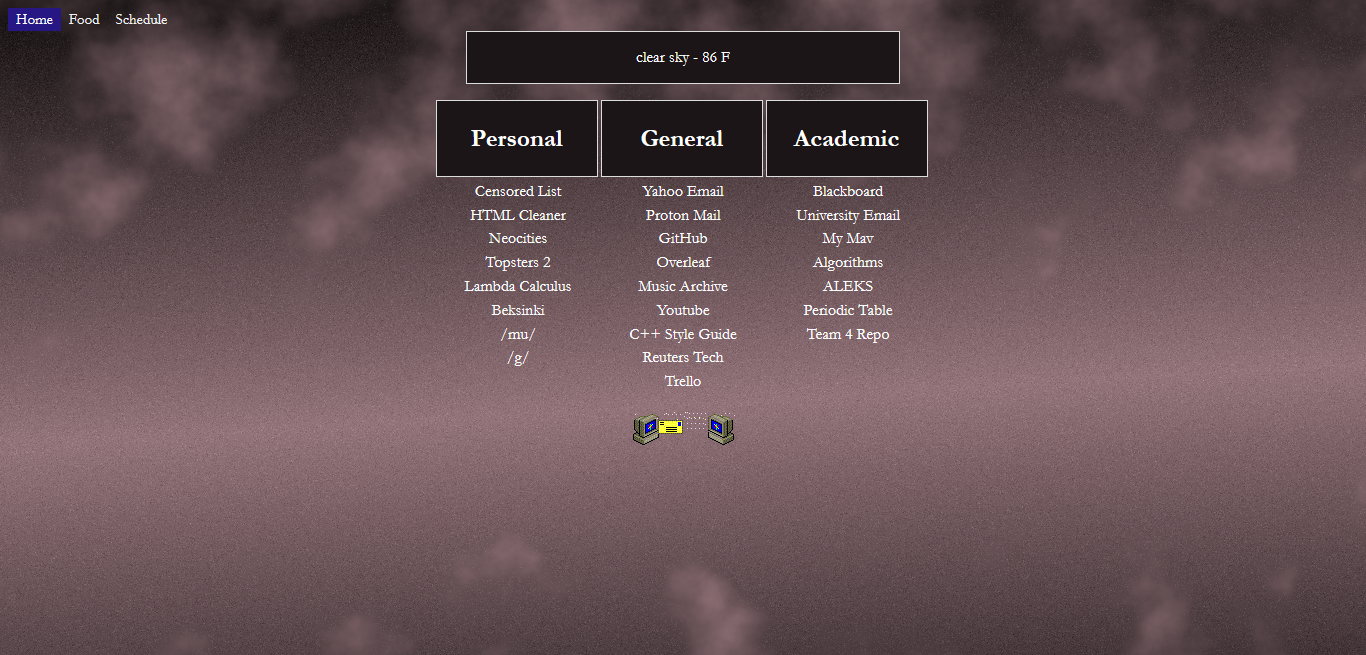
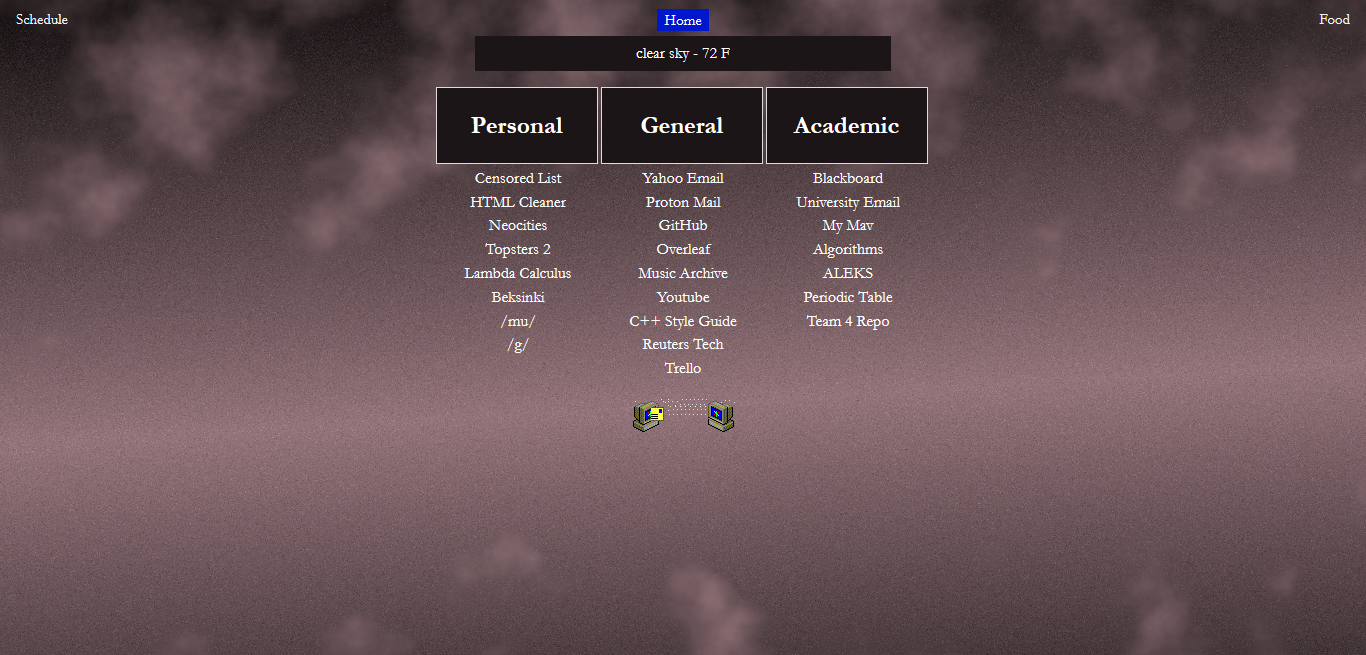
Preview update and styles comments added

diff --git a/dan/styles.css b/dan/styles.css
@@ -14,23 +14,49 @@ body {
 	
 	align-items: center;
     justify-content: center;
-	
     display: flex;
 	flex-direction: column;
+}
+
+.h-divider{
+	margin-top: 5px;
+	margin-bottom: 5px;
+	width: 100%;
+	height: 1px;
 }
 
 .weather-container {
     width: 400px;
     background-color: #1C1517;
-	border: 1px solid #ddd;
-    padding: 1em;
+	//border: 1px solid #ddd;
+    padding: 8px 8px;
     color: white;
     text-align: center;
 }
 .inline {
     display: inline-block;
 }
-
+/*
+=======================================================================
+Catalog container, catalog and link details
+=======================================================================
+This formatting system is used as the traditional logic for tables
+	in HTML is not suitible for constant updates due to the central 
+	unit of organization being rows instead of columns. Therefore the
+	catalog and catalog container system focuses on columns such that
+	categorizing links are made easy.
+@Catalog container - A "table", not a literal HTMl table.
+@Catalog - A column within the "table" that has two elements related
+	to it, the catalog-title and catalog-list.
+@Catalog-title - A label for the category of item being put into the
+	catalog.
+@Catalog-list - A collection of items that make up the catalog, the
+	items inside are links. Merely named for organizational purposes
+	but can be used for unique styling.
+@Link - A link. This class was created to ensure control over the
+	styling of a link inside of the catalog system. It is the 
+	fundamental unit of the catalog.
+*/
 .catalog-container {
 	width: 50%;
     
@@ -67,15 +93,21 @@ body {
     display: block;
     margin: .3em 0em;
 }
-
-/* Add a black background color to the top navigation */
-.topnav {
-    //background-color: #333;
+/*
+=======================================================================
+Navigation bar details
+=======================================================================
+The navigation bar is meant to only house links that take the user away
+	from index.html as all other links should keep within this "home"
+	document while opening the desired link in a new tab.
+*/
+.navbar {
+	position: relative;
     overflow: hidden;
+	margin-bottom: 5px;
 }
-
 /* Style the links inside the navigation bar */
-.topnav a {
+.navbar a {
     float: left;
     color: #f2f2f2;
 	text-align: center;
@@ -83,13 +115,25 @@ body {
     text-decoration: none;
     font-size: 15px;
 }
-/* Change the color of links on hover */
-.topnav a:hover {
+/* Change style of links in hover */
+.navbar a:hover {
     background-color: #ddd;
     color: black;
 }
-/* Add a color to the active/current link */
-.topnav a.active {
-    background-color: #261784;
+/* Change style of the active/current link */
+.navbar a.active {
+	background-color: #0017CC;
     color: white;
+}
+/* Centered section inside the navigation bar */
+.navbar-center {
+	float: none;
+	position: absolute;
+	top: 50%;
+	left: 50%;
+	transform: translate(-50%, -50%);
+}
+/* Right-aligned section inside the navigation bar */
+.navbar-right {
+	float: right;
 }
